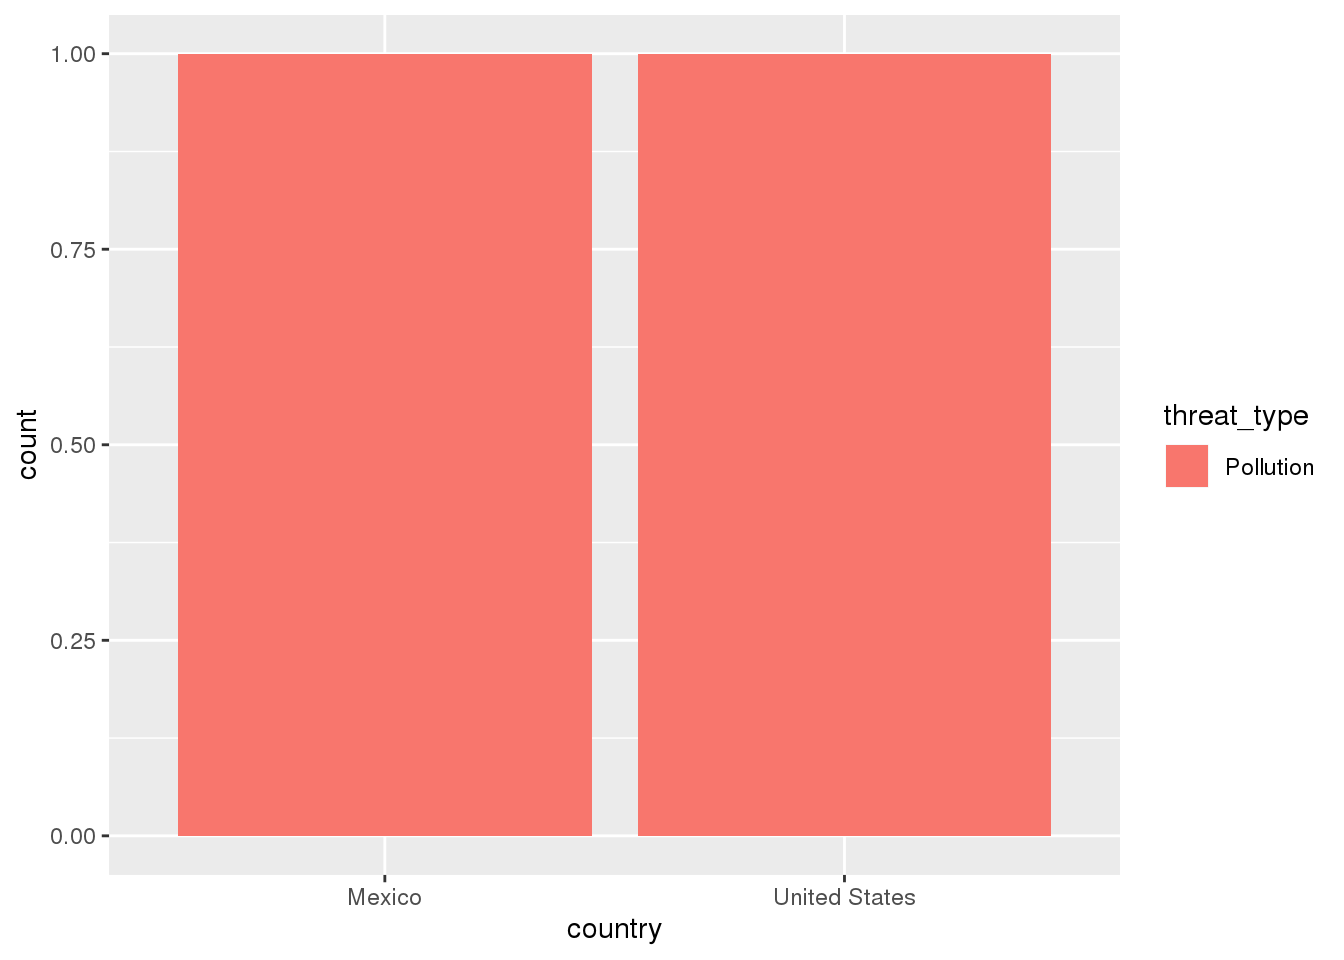
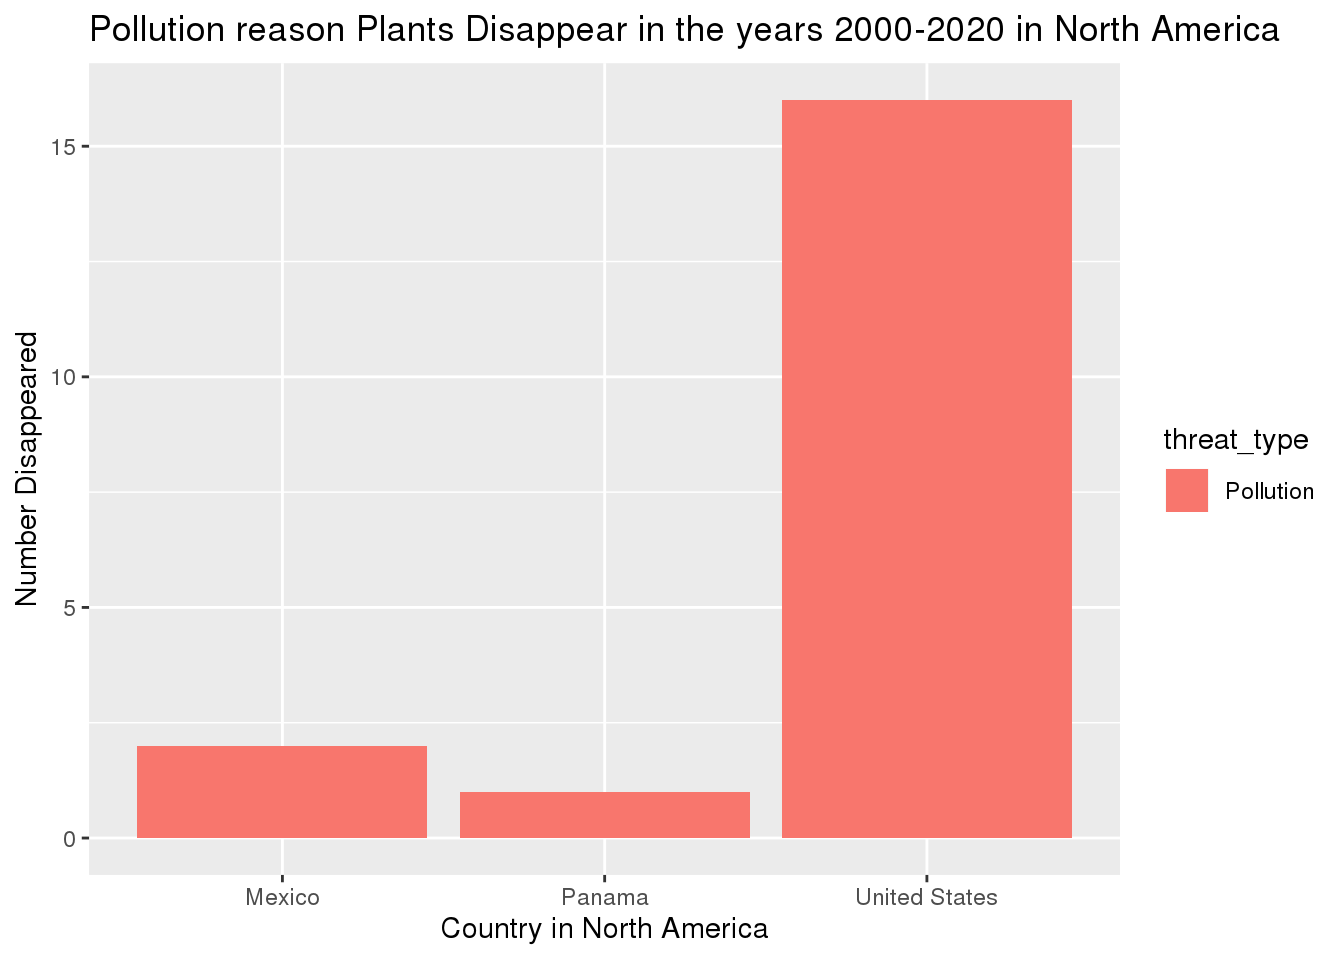
updating Plants page2

diff --git a/content/post/2020-12-09-plants-in-danger/index2.html b/content/post/2020-12-09-plants-in-danger/index2.html
@@ -1,14 +1,5 @@
----
-title: Plants in Danger
-author: ~
-date: '2020-12-09'
-slug: plants-in-danger
-categories: []
-tags: []
----
-
-<link href="/rmarkdown-libs/anchor-sections/anchor-sections.css" rel="stylesheet" />
-<script src="/rmarkdown-libs/anchor-sections/anchor-sections.js"></script>
+<link href="index2_files/anchor-sections/anchor-sections.css" rel="stylesheet" />
+<script src="index2_files/anchor-sections/anchor-sections.js"></script>
 
 
 <pre class="r"><code>library(tidyverse)
@@ -73,91 +64,93 @@ The variable bionomial_name is factor of 3000 levels that represent the species 
 </div>
 <div id="question-1" class="section level1">
 <h1>Question 1</h1>
-<p>Which countries in North America currently have the most plants in danger by extinction?</p>
+<p>Which countries in North America currently have the most plants in danger?</p>
 <p>To Determine, filter within the data set, observe at a closer lense to the North American Countries</p>
-<pre class="r"><code>filter(dat4, continent %in% c(&quot;North America&quot;))%&gt;%
+<pre class="r"><code>q1&lt;-filter(dat4, continent %in% c( &quot;North America&quot;))%&gt;%
+  group_by(country)%&gt;%
   filter(year_last_seen == c(&quot;2000-2020&quot;))%&gt;%
   filter(threat_type == &quot;Pollution&quot;)%&gt;%
-  filter(red_list_category %in% c(&quot;Extinct&quot;, &quot;Extinct in the Wild&quot;))</code></pre>
-<pre><code>## # A tibble: 19 x 8
-##    binomial_name country continent group year_last_seen red_list_catego…
-##    &lt;chr&gt;         &lt;chr&gt;   &lt;chr&gt;     &lt;chr&gt; &lt;chr&gt;          &lt;chr&gt;           
-##  1 Adenophorus … United… North Am… Fern… 2000-2020      Extinct         
-##  2 Agave lurida  Mexico  North Am… Flow… 2000-2020      Extinct in the …
-##  3 Artemisia ka… United… North Am… Flow… 2000-2020      Extinct         
-##  4 Brighamia in… United… North Am… Flow… 2000-2020      Extinct in the …
-##  5 Costus vinos… Panama  North Am… Flow… 2000-2020      Extinct in the …
-##  6 Cyanea kuhih… United… North Am… Flow… 2000-2020      Extinct in the …
-##  7 Cyanea pinna… United… North Am… Flow… 2000-2020      Extinct in the …
-##  8 Cyanea super… United… North Am… Flow… 2000-2020      Extinct in the …
-##  9 Delissea rhy… United… North Am… Flow… 2000-2020      Extinct in the …
-## 10 Gossypium ar… Mexico  North Am… Flow… 2000-2020      Extinct in the …
-## 11 Kanaloa kaho… United… North Am… Flow… 2000-2020      Extinct in the …
-## 12 Melicope cru… United… North Am… Flow… 2000-2020      Extinct         
-## 13 Melicope pan… United… North Am… Flow… 2000-2020      Extinct         
-## 14 Phyllostegia… United… North Am… Flow… 2000-2020      Extinct         
-## 15 Phyllostegia… United… North Am… Flow… 2000-2020      Extinct in the …
-## 16 Stenogyne bi… United… North Am… Flow… 2000-2020      Extinct in the …
-## 17 Stenogyne ca… United… North Am… Flow… 2000-2020      Extinct in the …
-## 18 Stenogyne ka… United… North Am… Flow… 2000-2020      Extinct in the …
-## 19 Wikstroemia … United… North Am… Flow… 2000-2020      Extinct         
-## # … with 2 more variables: threat_type &lt;chr&gt;, threatened &lt;dbl&gt;</code></pre>
-<p>Of the plants that became extinct in 2000-2020, the majority were last seen in America. 16 were from the United States, 2 from Mexico, and only 1 from Panama.Therefore, the United States has a greater pollution problem than the other two countries.</p>
-</div>
-<div id="question-2" class="section level1">
-<h1>Question 2</h1>
-<p>How much action is being enforced for the plants going extinct in the North American countries?
+  ggplot(aes(x = country, count = threat_type, fill = threat_type))+
+  geom_bar()+
+  ggtitle(&quot;Pollution reason Plants Disappear in the years 2000-2020 in North America&quot;)+
+  ylab(&quot;Number Disappeared&quot;)+
+  xlab(&quot;Country in North America&quot;)
+q1</code></pre>
+<p><img src="index2_files/figure-html/unnamed-chunk-5-1.png" width="672" />
+Of the plants that became extinct in 2000-2020 due to pollution, the majority were last seen in America. 16 were from the United States, 2 from Mexico, 1 from Panama. This insinuates that America has a much larger pollution problem at hand and it is detrimental to their plant species.</p>
+<p>If we take it further to examine which countries in North America are most fatal to their plants we can analyze the following:</p>
+<pre class="r"><code>q1b&lt;-filter(dat4, continent %in% c( &quot;North America&quot;))%&gt;%
+  group_by(country)%&gt;%
+  filter(threat_type == &quot;Pollution&quot;)%&gt;%
+  ggplot(aes(x = country, count = threat_type, fill = threat_type))+
+  geom_bar()+
+  ggtitle(&quot;Pollution reason Plants Disappear in North America&quot;)+
+  ylab(&quot;Number Disappeared&quot;)+
+  xlab(&quot;Country in North America&quot;)+
+  theme(axis.text.x = element_text(angle =- 45, hjust = 0))
+q1b</code></pre>
+<p><img src="index2_files/figure-html/unnamed-chunk-6-1.png" width="672" />
+This graph portrays the amount of plants each country has lost, not filtered by the current years. This shows that America is consistently the most harmful to their plants than any other North American country or Island.
+# Question 2
+How much action is being enforced for the plants in North American Countries?
 To determine, filter the data to match what the threat was and whether or not action was taken to deter that threat.</p>
-<pre class="r"><code>action_in_NA&lt;- filter(dat5, action_taken == &quot;1&quot;)%&gt;%
-  filter(country %in% c(&quot;North America&quot;, &quot;Mexico&quot;, &quot;Canada&quot;))%&gt;%
+<pre class="r"><code>action&lt;- filter(dat5, action_taken == &quot;1&quot;)%&gt;%
   filter(year_last_seen == &quot;2000-2020&quot;)
-action_in_NA</code></pre>
-<pre><code>## # A tibble: 2 x 8
-##   binomial_name country continent group year_last_seen red_list_catego…
-##   &lt;chr&gt;         &lt;chr&gt;   &lt;chr&gt;     &lt;chr&gt; &lt;chr&gt;          &lt;chr&gt;           
-## 1 Agave lurida  Mexico  North Am… Flow… 2000-2020      Extinct in the …
-## 2 Gossypium ar… Mexico  North Am… Flow… 2000-2020      Extinct in the …
-## # … with 2 more variables: action_type &lt;chr&gt;, action_taken &lt;dbl&gt;</code></pre>
-<pre class="r"><code>Extinct_in_NA &lt;- filter(dat4, continent %in% c(&quot;North America&quot;))%&gt;%
-  filter(year_last_seen == c(&quot;2000-2020&quot;))%&gt;%
-  filter(red_list_category %in% c(&quot;Extinct&quot;, &quot;Extinct in the Wild&quot;))%&gt;%
-  group_by(binomial_name)
-  
+
+action_total &lt;- filter(dat5 ,action_taken == c(&quot;0&quot;,&quot;1&quot;)) %&gt;%
+  filter(year_last_seen == c(&quot;2000-2020&quot;))
 
 
-Extinct_in_NA</code></pre>
-<pre><code>## # A tibble: 228 x 8
-## # Groups:   binomial_name [19]
-##    binomial_name country continent group year_last_seen red_list_catego…
-##    &lt;chr&gt;         &lt;chr&gt;   &lt;chr&gt;     &lt;chr&gt; &lt;chr&gt;          &lt;chr&gt;           
-##  1 Adenophorus … United… North Am… Fern… 2000-2020      Extinct         
-##  2 Adenophorus … United… North Am… Fern… 2000-2020      Extinct         
-##  3 Adenophorus … United… North Am… Fern… 2000-2020      Extinct         
-##  4 Adenophorus … United… North Am… Fern… 2000-2020      Extinct         
-##  5 Adenophorus … United… North Am… Fern… 2000-2020      Extinct         
-##  6 Adenophorus … United… North Am… Fern… 2000-2020      Extinct         
-##  7 Adenophorus … United… North Am… Fern… 2000-2020      Extinct         
-##  8 Adenophorus … United… North Am… Fern… 2000-2020      Extinct         
-##  9 Adenophorus … United… North Am… Fern… 2000-2020      Extinct         
-## 10 Adenophorus … United… North Am… Fern… 2000-2020      Extinct         
-## # … with 218 more rows, and 2 more variables: threat_type &lt;chr&gt;,
-## #   threatened &lt;dbl&gt;</code></pre>
-<p>There was only 2 plants, Agave Iurida and Gossypium armourianum that saw action being taken out of a list of 228 plants in danger.
-Both plants saw action saw action from Mexico, which means none of the other countries tried to administer any action to control the extent of the danger that the plants are in.</p>
-<pre class="r"><code>glimpse(dat5)</code></pre>
-<pre><code>## Observations: 3,000
-## Variables: 8
-## $ binomial_name     &lt;chr&gt; &quot;Abutilon pitcairnense&quot;, &quot;Abutilon pitcairnense&quot;, &quot;…
-## $ country           &lt;chr&gt; &quot;Pitcairn&quot;, &quot;Pitcairn&quot;, &quot;Pitcairn&quot;, &quot;Pitcairn&quot;, &quot;Pi…
-## $ continent         &lt;chr&gt; &quot;Oceania&quot;, &quot;Oceania&quot;, &quot;Oceania&quot;, &quot;Oceania&quot;, &quot;Oceani…
-## $ group             &lt;chr&gt; &quot;Flowering Plant&quot;, &quot;Flowering Plant&quot;, &quot;Flowering Pl…
-## $ year_last_seen    &lt;chr&gt; &quot;2000-2020&quot;, &quot;2000-2020&quot;, &quot;2000-2020&quot;, &quot;2000-2020&quot;,…
-## $ red_list_category &lt;chr&gt; &quot;Extinct in the Wild&quot;, &quot;Extinct in the Wild&quot;, &quot;Exti…
-## $ action_type       &lt;chr&gt; &quot;Land &amp; Water Protection&quot;, &quot;Species Management&quot;, &quot;L…
-## $ action_taken      &lt;dbl&gt; 1, 1, 0, 1, 0, 0, 0, 0, 0, 1, 0, 0, 0, 0, 0, 0, 0, …</code></pre>
+proportion &lt;- count(action)/count(action_total)
+
+proportion</code></pre>
+<pre><code>##          n
+## 1 0.442623</code></pre>
+<pre class="r"><code>action_in_NA&lt;- filter(dat5, action_taken == &quot;1&quot;)%&gt;%
+  filter(continent %in% c(&quot;North America&quot;))%&gt;%
+  filter(year_last_seen == &quot;2000-2020&quot;)
+
+action_total_NA &lt;- filter(dat5 ,action_taken == c(&quot;0&quot;,&quot;1&quot;)) %&gt;%
+  filter(continent %in% c(&quot;North America&quot;))%&gt;%
+  filter(year_last_seen == c(&quot;2000-2020&quot;))
+
+proportion_NA &lt;- count(action_in_NA)/count(action_total_NA)
+proportion_NA</code></pre>
+<pre><code>##           n
+## 1 0.4459459</code></pre>
+<p>America actually has a slightly greater ratio of action taken to action not taken than the world in total. This makes sense as the United States seems to have one of the greatest extinction rates in the world.</p>
 </div>
 <div id="question-3" class="section level1">
 <h1>Question 3</h1>
-<p>Was there an event in recent history that wiped out, or put multiple plant species in danger?
-To determine, I will create a graphic graphing the year the plants were last seen as well as the threat the plants are/were in.</p>
+<p>Is there a year interval where there is a multitude of plants lost in the United States? If so, what is the likely cause for such disappearance?</p>
+<pre class="r"><code>dat4%&gt;%
+  filter(country == &quot;United States&quot;)%&gt;%
+  filter(binomial_name == c(&quot;Acaena exigua&quot;,&quot;Achyranthes atollensis&quot;,&quot;Adenophorus periens&quot;,&quot;Brighamia insignis&quot;,&quot;Clermontia multiflora&quot;,  &quot;Stenogyne kanehoana&quot;))%&gt;%
+  ggplot(aes(y= binomial_name, x = year_last_seen))+
+  geom_point(mapping = aes(y= binomial_name, x = year_last_seen))+
+  theme(axis.text.x = element_text(angle =- 45, hjust = 0))+
+  xlab(&quot;Year Last Seen&quot;) +
+  ylab(&quot;Species Name&quot;) +
+  ggtitle(&quot;Year Last Seen for Plant Species in United States&quot;)</code></pre>
+<p><img src="index2_files/figure-html/unnamed-chunk-8-1.png" width="672" />
+To evaluate this question, I picked random plants that were last seen in the United States and compared their disappearance. My reasoning for picking random points is that an event that would “wipe out” different species would not value one type of species above the other, so I figured picking random plants would create an understanding of such event. Out of the 6 I picked, 1/2 of them were last seen in the years 2000-2020. This is likely due to the harm that a more urbanized society has on plant life, such as pollution.</p>
+<pre class="r"><code>dat4%&gt;%
+  filter(country == &quot;United States&quot;)%&gt;%
+  filter(binomial_name == c(&quot;Acaena exigua&quot;,&quot;Achyranthes atollensis&quot;,&quot;Adenophorus periens&quot;,&quot;Brighamia insignis&quot;,&quot;Clermontia multiflora&quot;,  &quot;Stenogyne kanehoana&quot;))%&gt;%
+  filter(year_last_seen == &quot;2000-2020&quot;)</code></pre>
+<pre><code>## # A tibble: 6 x 8
+##   binomial_name country continent group year_last_seen red_list_catego…
+##   &lt;chr&gt;         &lt;chr&gt;   &lt;chr&gt;     &lt;chr&gt; &lt;chr&gt;          &lt;chr&gt;           
+## 1 Adenophorus … United… North Am… Fern… 2000-2020      Extinct         
+## 2 Adenophorus … United… North Am… Fern… 2000-2020      Extinct         
+## 3 Brighamia in… United… North Am… Flow… 2000-2020      Extinct in the …
+## 4 Brighamia in… United… North Am… Flow… 2000-2020      Extinct in the …
+## 5 Stenogyne ka… United… North Am… Flow… 2000-2020      Extinct in the …
+## 6 Stenogyne ka… United… North Am… Flow… 2000-2020      Extinct in the …
+## # … with 2 more variables: threat_type &lt;chr&gt;, threatened &lt;dbl&gt;</code></pre>
+<p>In response to my last claim that it is likely pollution that is so harmful to these plants, not one of them from the group I selected above disappeared from pollution. In fact, all of the 6 plants had a different reason for disappearance. The closest to my hypothesis was that plant Adenophorus periens was threatened by commercial development, the urbanization of America.</p>
+</div>
+<div id="conclusion" class="section level1">
+<h1>Conclusion</h1>
+<p>This data set provides very valuable information about the future of plants. This becomes a human problem because we are so dependent on plants to produce the oxygen in our atmosphere. It is apparent in almost all the data sets that America is the leading “killer” of plants, however, they have had enacted action to deter this fact. The loss of plants is inevitable, especially with increased urbanization and the negative side effects that it brings (climate change, pollution, commercial development, etc). But as urbanization continues, so must the action taken by local or federal government to ensure the safety of these valuable plants.</p>
 </div>
